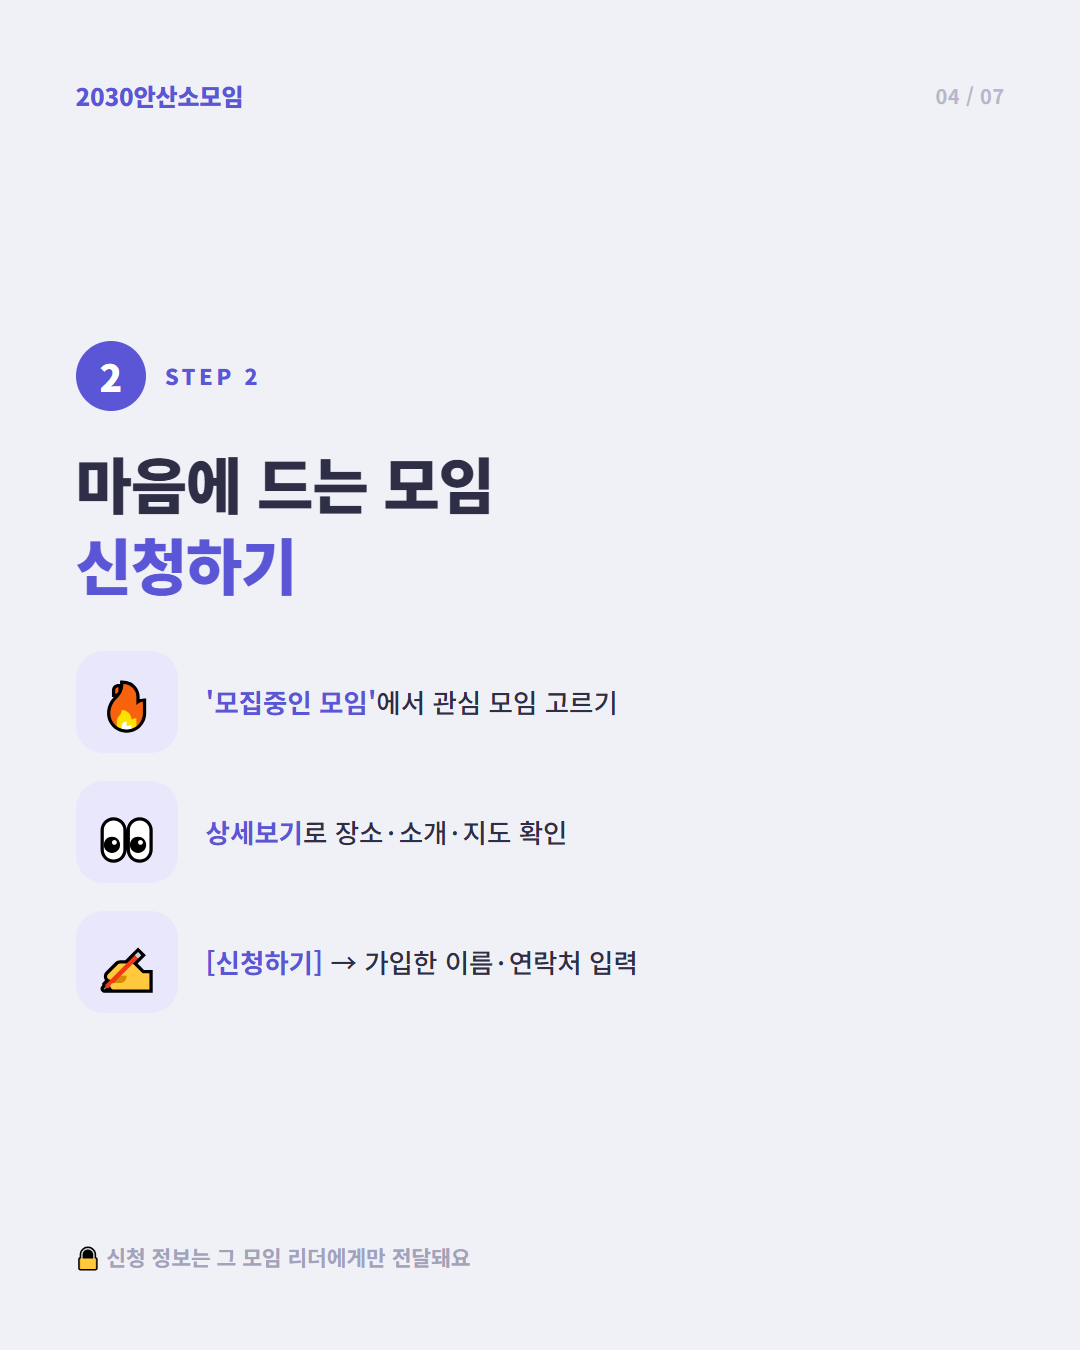
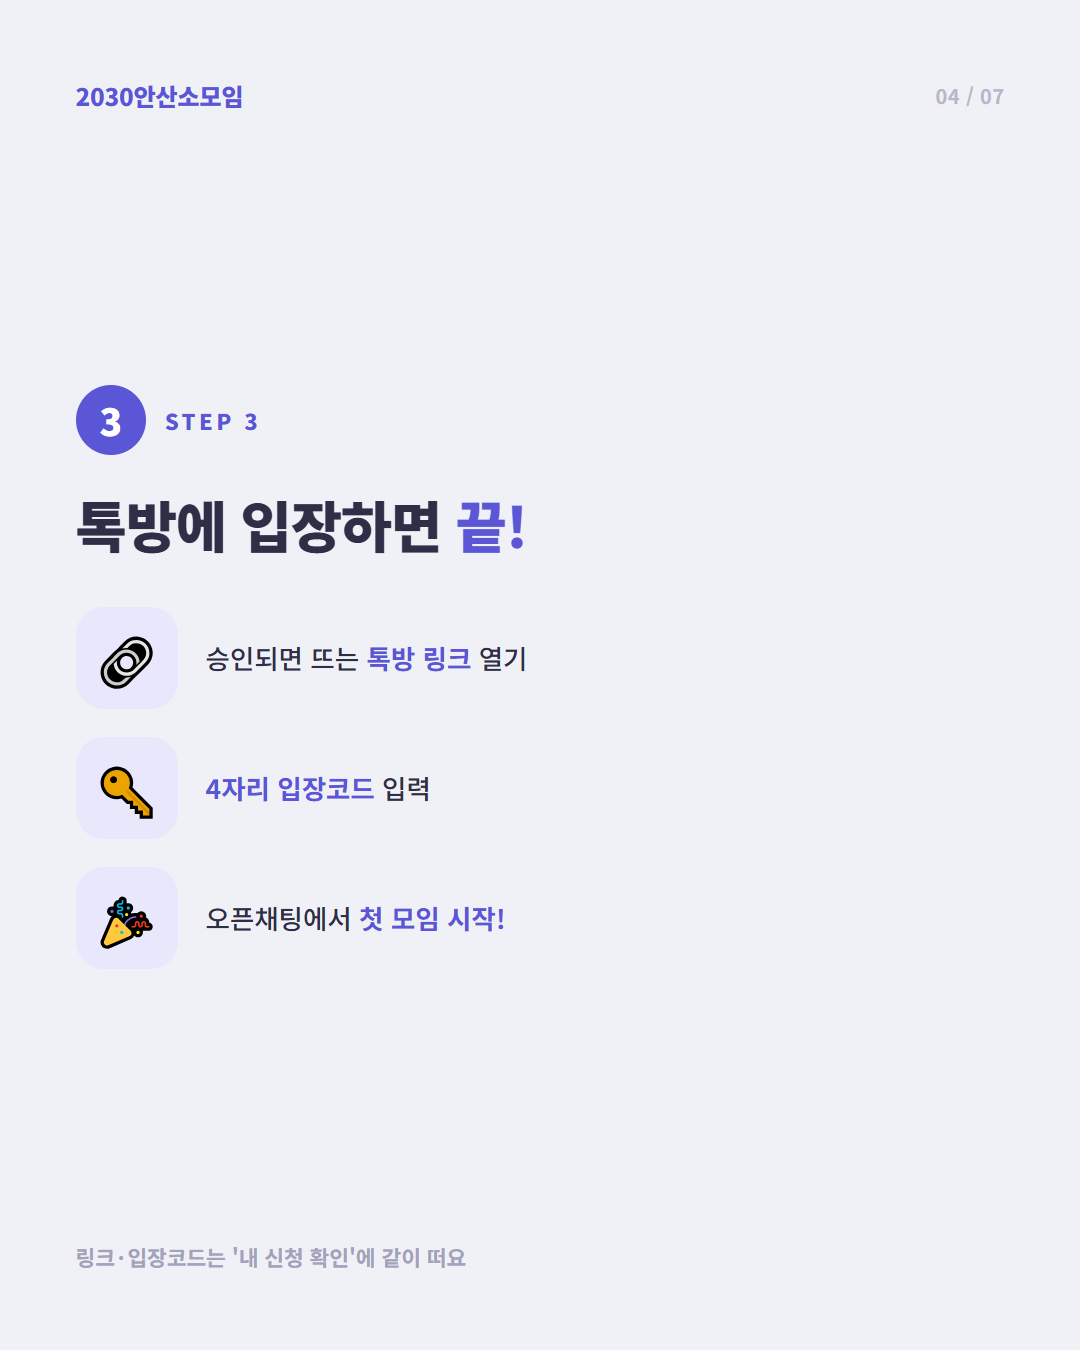
docs: 이용 가이드 카드뉴스 개편 - 기가입 회원 대상 이용법 중심(회원가입 단계 제거)

diff --git a/카드뉴스/사용법-안내/source.html b/카드뉴스/사용법-안내/source.html
@@ -79,87 +79,87 @@
   <div class="card pp">
     <div class="hd"><span class="wm">2030안산소모임 🏠</span></div>
     <div class="mid left">
-      <span class="pill">START GUIDE</span>
-      <h1>처음 오셨나요?<br><span class="y">이렇게 시작해요</span></h1>
+      <span class="pill">MEMBER GUIDE</span>
+      <h1>가입 환영해요!<br><span class="y">이렇게 이용하세요</span></h1>
       <div class="dash"></div>
-      <p class="sub">회원가입부터 첫 모임 참여까지,<br>딱 <b>3단계</b>면 끝나요. 🙆</p>
+      <p class="sub">관심 모임 신청부터 톡방 입장까지,<br>딱 <b>3단계</b>면 참여 끝! 🙆</p>
     </div>
     <div class="ft"><span>옆으로 넘겨보세요</span><span class="rt">👉</span></div>
   </div>
 
-  <!-- 02 소개 -->
+  <!-- 02 STEP 1 신청 -->
   <div class="card lt">
     <div class="hd"><span class="wm">2030안산소모임</span><span class="pg">02 / 07</span></div>
     <div class="mid left">
-      <div class="eb">소모임이 뭐예요?</div>
-      <h1>안산 2030<br><span class="pu">취미·친목 플랫폼</span></h1>
-      <div class="list">
-        <div class="row"><span class="ic">🏃</span><span class="t">러닝·보드게임·맛집 등 <b>다양한 취미모임</b></span></div>
-        <div class="row"><span class="ic">🤝</span><span class="t">안산 사는 <b>또래(20~30대)</b>와 친목</span></div>
-        <div class="row"><span class="ic">🔒</span><span class="t"><b>회원제</b> — 검증된 멤버끼리 안전하게</span></div>
-      </div>
-    </div>
-    <div class="ft"><span>마음에 드는 모임에 신청하면 끝!</span></div>
-  </div>
-
-  <!-- 03 STEP 1 가입 -->
-  <div class="card lt">
-    <div class="hd"><span class="wm">2030안산소모임</span><span class="pg">03 / 07</span></div>
-    <div class="mid left">
       <div class="step"><span class="num">1</span><span class="lab">STEP 1</span></div>
-      <h1>먼저 <span class="pu">회원가입</span>부터</h1>
+      <h1>관심 모임 찾아<br><span class="pu">신청하기</span></h1>
       <div class="list">
-        <div class="row"><span class="ic">💬</span><span class="t">홈 오른쪽 아래 <b>[문의하기]</b> 버튼 누르기</span></div>
-        <div class="row"><span class="ic">🙋</span><span class="t">오픈채팅에서 <b>가입하고 싶다고</b> 말하기</span></div>
-        <div class="row"><span class="ic">✅</span><span class="t">운영진이 확인 후 <b>가입을 도와드려요</b></span></div>
-      </div>
-    </div>
-    <div class="ft"><span>신청은 가입 회원만 가능해요 · 한 번만 가입!</span></div>
-  </div>
-
-  <!-- 04 STEP 2 신청 -->
-  <div class="card lt">
-    <div class="hd"><span class="wm">2030안산소모임</span><span class="pg">04 / 07</span></div>
-    <div class="mid left">
-      <div class="step"><span class="num">2</span><span class="lab">STEP 2</span></div>
-      <h1>마음에 드는 모임<br><span class="pu">신청하기</span></h1>
-      <div class="list">
-        <div class="row"><span class="ic">🔥</span><span class="t"><b>'모집중인 모임'</b>에서 관심 모임 고르기</span></div>
+        <div class="row"><span class="ic">🔥</span><span class="t"><b>'모집중인 모임'</b>에서 마음에 드는 모임 찾기</span></div>
         <div class="row"><span class="ic">👀</span><span class="t"><b>상세보기</b>로 장소·소개·지도 확인</span></div>
-        <div class="row"><span class="ic">✍</span><span class="t"><b>[신청하기]</b> → 가입한 이름·연락처 입력</span></div>
+        <div class="row"><span class="ic">✍</span><span class="t"><b>[신청하기]</b> → 가입 때 이름·연락처 입력</span></div>
       </div>
     </div>
     <div class="ft"><span>🔒 신청 정보는 그 모임 리더에게만 전달돼요</span></div>
   </div>
 
-  <!-- 05 STEP 3 결과확인·입장 (BEFORE→AFTER) -->
+  <!-- 03 STEP 2 내 신청 확인 (BEFORE→AFTER) -->
   <div class="card lt">
-    <div class="hd"><span class="wm">2030안산소모임</span><span class="pg">05 / 07</span></div>
+    <div class="hd"><span class="wm">2030안산소모임</span><span class="pg">03 / 07</span></div>
     <div class="mid left">
-      <div class="step"><span class="num">3</span><span class="lab">STEP 3</span></div>
-      <h1 class="sm">승인되면 <span class="pu">톡방으로</span> 입장!</h1>
+      <div class="step"><span class="num">2</span><span class="lab">STEP 2</span></div>
+      <h1 class="sm">승인됐는지 <span class="pu">바로 확인</span></h1>
       <div class="ba">
         <div class="bc"><span class="tag b">BEFORE</span><div class="bt">"저 신청 됐나요?"<br>계속 기다리며 물어봤어요 😥</div></div>
         <div class="arrow">▼</div>
-        <div class="bc after"><span class="tag a">AFTER</span><div class="bt"><span class="pu">📋 '내 신청 확인'</span>에서 승인 여부와<br>톡방 링크·입장코드를 바로 확인!</div></div>
+        <div class="bc after"><span class="tag a">AFTER</span><div class="bt"><span class="pu">📋 '내 신청 확인'</span>에서<br>승인 여부를 내가 직접 확인!</div></div>
       </div>
     </div>
-    <div class="ft"><span>링크와 4자리 입장코드로 오픈채팅 입장 🎉</span></div>
+    <div class="ft"><span>가입 때 이름·연락처로 조회하면 끝</span></div>
   </div>
 
-  <!-- 06 부가 기능 -->
+  <!-- 04 STEP 3 톡방 입장 -->
+  <div class="card lt">
+    <div class="hd"><span class="wm">2030안산소모임</span><span class="pg">04 / 07</span></div>
+    <div class="mid left">
+      <div class="step"><span class="num">3</span><span class="lab">STEP 3</span></div>
+      <h1 class="sm">톡방에 입장하면 <span class="pu">끝!</span></h1>
+      <div class="list">
+        <div class="row"><span class="ic">🔗</span><span class="t">승인되면 뜨는 <b>톡방 링크</b> 열기</span></div>
+        <div class="row"><span class="ic">🔑</span><span class="t"><b>4자리 입장코드</b> 입력</span></div>
+        <div class="row"><span class="ic">🎉</span><span class="t">오픈채팅에서 <b>첫 모임 시작!</b></span></div>
+      </div>
+    </div>
+    <div class="ft"><span>링크·입장코드는 '내 신청 확인'에 같이 떠요</span></div>
+  </div>
+
+  <!-- 05 신청 꿀팁 -->
+  <div class="card lt">
+    <div class="hd"><span class="wm">2030안산소모임</span><span class="pg">05 / 07</span></div>
+    <div class="mid left">
+      <div class="eb">알아두면 좋아요</div>
+      <h1 class="sm">신청 전 <span class="pu">꿀팁</span> 3가지</h1>
+      <div class="list">
+        <div class="row"><span class="ic">🧾</span><span class="t">이름·연락처는 <b>가입 때와 똑같이</b> 입력해요</span></div>
+        <div class="row"><span class="ic">📅</span><span class="t"><b>'전 회차 참석'</b> 조건은 다 참석 가능할 때만</span></div>
+        <div class="row"><span class="ic">🗺</span><span class="t">상세보기의 <b>지도</b>로 위치 미리 확인</span></div>
+      </div>
+    </div>
+    <div class="ft"><span>작은 확인이 노쇼를 줄여요 🙏</span></div>
+  </div>
+
+  <!-- 06 리더 되기 -->
   <div class="card lt">
     <div class="hd"><span class="wm">2030안산소모임</span><span class="pg">06 / 07</span></div>
     <div class="mid left">
-      <div class="eb">알아두면 좋아요</div>
-      <h1 class="sm">이런 것도 <span class="pu">할 수 있어요</span></h1>
+      <div class="eb">한 걸음 더</div>
+      <h1 class="sm">직접 <span class="pu">모임장</span>이 될 수도!</h1>
       <div class="list">
-        <div class="row"><span class="ic">💡</span><span class="t">열고 싶은 모임이 있다면 <b>리더 신청</b>으로 직접 개설</span></div>
-        <div class="row"><span class="ic">👑</span><span class="t">리더는 <b>'내 모임 참여자 확인'</b>으로 명단·성비 확인</span></div>
-        <div class="row"><span class="ic">📋</span><span class="t"><b>'내 신청 확인'</b>은 언제든 다시 볼 수 있어요</span></div>
+        <div class="row"><span class="ic">💡</span><span class="t"><b>'열고 싶은 모임이 있나요?'</b> → 리더 신청</span></div>
+        <div class="row"><span class="ic">👑</span><span class="t"><b>'내 모임 참여자 확인'</b>으로 명단·성비 확인</span></div>
+        <div class="row"><span class="ic">🙌</span><span class="t">내가 만든 모임으로 <b>사람들을 모아요</b></span></div>
       </div>
     </div>
-    <div class="ft"><span>리더가 되면 나만의 모임을 만들 수 있어요</span></div>
+    <div class="ft"><span>취미가 있다면 누구나 리더가 될 수 있어요</span></div>
   </div>
 
   <!-- 07 마무리 -->
@@ -167,10 +167,10 @@
     <div class="hd"><span class="wm">2030안산소모임 🏠</span><span class="pg">07 / 07</span></div>
     <div class="mid center">
       <div class="hero">🎉</div>
-      <h1>자, 이제<br><span class="y">시작해볼까요?</span></h1>
+      <h1>자, 이제<br><span class="y">모임에서 만나요!</span></h1>
       <div class="votes">
-        <div class="vote"><span class="em">1⃣</span><span>가입 문의 💬</span></div>
-        <div class="vote"><span class="em">2⃣</span><span>모임 신청 ✍</span></div>
+        <div class="vote"><span class="em">1⃣</span><span>모임 신청 ✍</span></div>
+        <div class="vote"><span class="em">2⃣</span><span>내 신청 확인 📋</span></div>
         <div class="vote"><span class="em">3⃣</span><span>톡방 입장 🎉</span></div>
       </div>
     </div>
